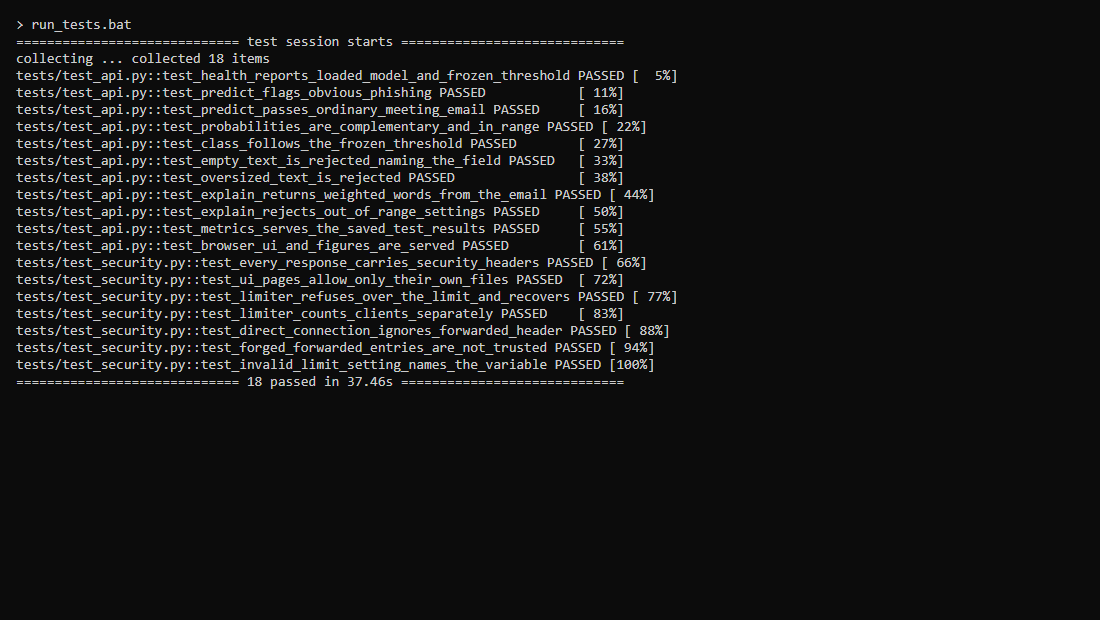
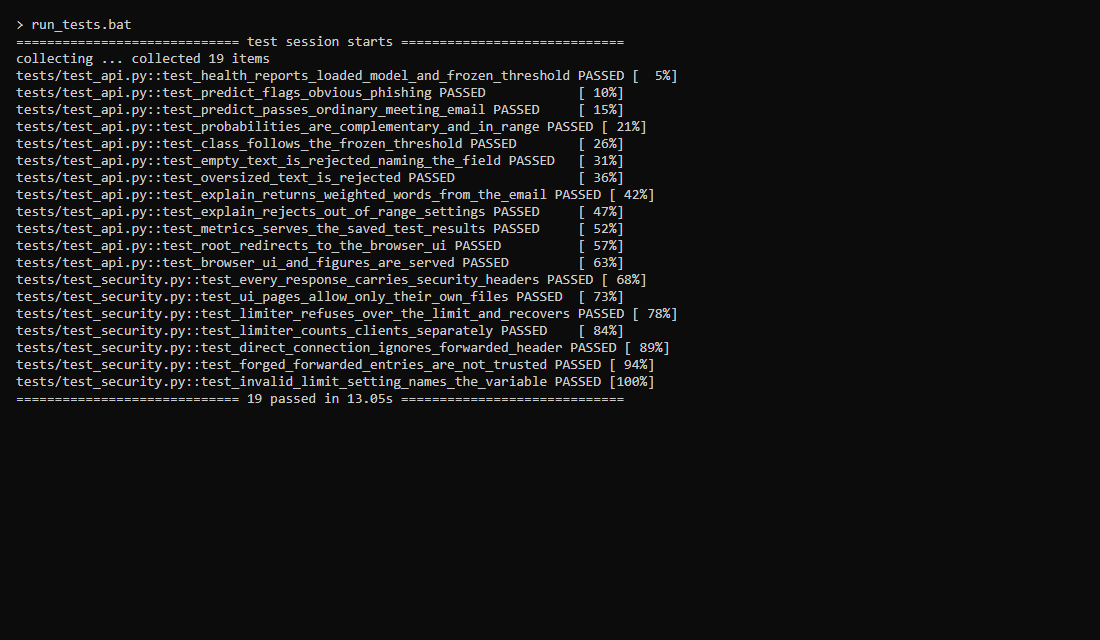
Live demo screenshots and theory section

Changed region(s): [[0.0, 0.0306, 0.6182, 0.6435]]

diff --git a/theory/ITRI625_Theory.md b/theory/ITRI625_Theory.md
@@ -685,11 +685,19 @@ Because the system is a security tool, the service itself is hardened. Every res
 
 ### Testing and Ease of Use
 
-An automated test suite of 18 tests loads the saved model and checks the endpoints, input validation, the frozen threshold, the security headers and the rate limiter; all pass (Figure 14). Windows batch files install the requirements (`setup.bat`) and start the API, the browser interface and the desktop application together (`start_all.bat`), and a Dockerfile packages the API, interface and model into one container for hosting.
+An automated test suite of 19 tests loads the saved model and checks the endpoints, input validation, the frozen threshold, the security headers and the rate limiter; all pass (Figure 14). Windows batch files install the requirements (`setup.bat`) and start the API, the browser interface and the desktop application together (`start_all.bat`), and a Dockerfile packages the API, interface and model into one container for hosting.
+
+### Live Demonstration
+
+The same container is hosted on Render's free plan at https://phishguard-b.onrender.com/ui/, with the API documentation at https://phishguard-b.onrender.com/docs (Figure 15). The first request after a period of inactivity takes about a minute while the free host wakes. Checked live, the pages answer with their security headers, a prediction returns in under a second, a LIME explanation takes about five seconds, and a burst of 40 requests is rate-limited (12 refused), including when a client forges its forwarded address.
+
+![The hosted demonstration analysing the phishing example](../docs/screenshots/12-live-demo-verdict.png)
+
+**Figure 15:** The hosted demonstration analysing the phishing example, with its LIME explanation.
 
 ![The automated test suite passing](../docs/screenshots/11-tests-passing.png)
 
-**Figure 14:** The automated test suite: 18 tests, all passing.
+**Figure 14:** The automated test suite: 19 tests, all passing.
 
 ## References
 

diff --git a/docs/screenshots/README.md b/docs/screenshots/README.md
@@ -2,7 +2,7 @@
 
 Captured from the running system: the API started with `start_api.bat`, the
 browser UI in a headless browser, the desktop app driven against the same API,
-and the test suite run with `run_tests.bat`. The training and evaluation
+the test suite run with `run_tests.bat`, and the hosted demo. The training and evaluation
 figures themselves are in `outputs/figures/` and inside the notebook.
 
 | File | What it shows |
@@ -17,4 +17,6 @@ figures themselves are in `outputs/figures/` and inside the notebook.
 | `08-desktop-phishing-verdict.png` | Desktop app: the phishing example flagged as Critical risk |
 | `09-desktop-lime-explanation.png` | Desktop app: the LIME explanation window for that email |
 | `10-desktop-legitimate-verdict.png` | Desktop app: the meeting email passed as legitimate |
-| `11-tests-passing.png` | The test suite: 18 tests on the endpoints, validation, threshold logic and security layer, all passing |
+| `11-tests-passing.png` | The test suite: 19 tests on the endpoints, validation, threshold logic and security layer, all passing |
+| `12-live-demo-verdict.png` | The hosted demo at https://phishguard-b.onrender.com/ui/ analysing the phishing example, with its LIME words |
+| `13-live-api-docs.png` | The hosted API's interactive documentation at https://phishguard-b.onrender.com/docs |
